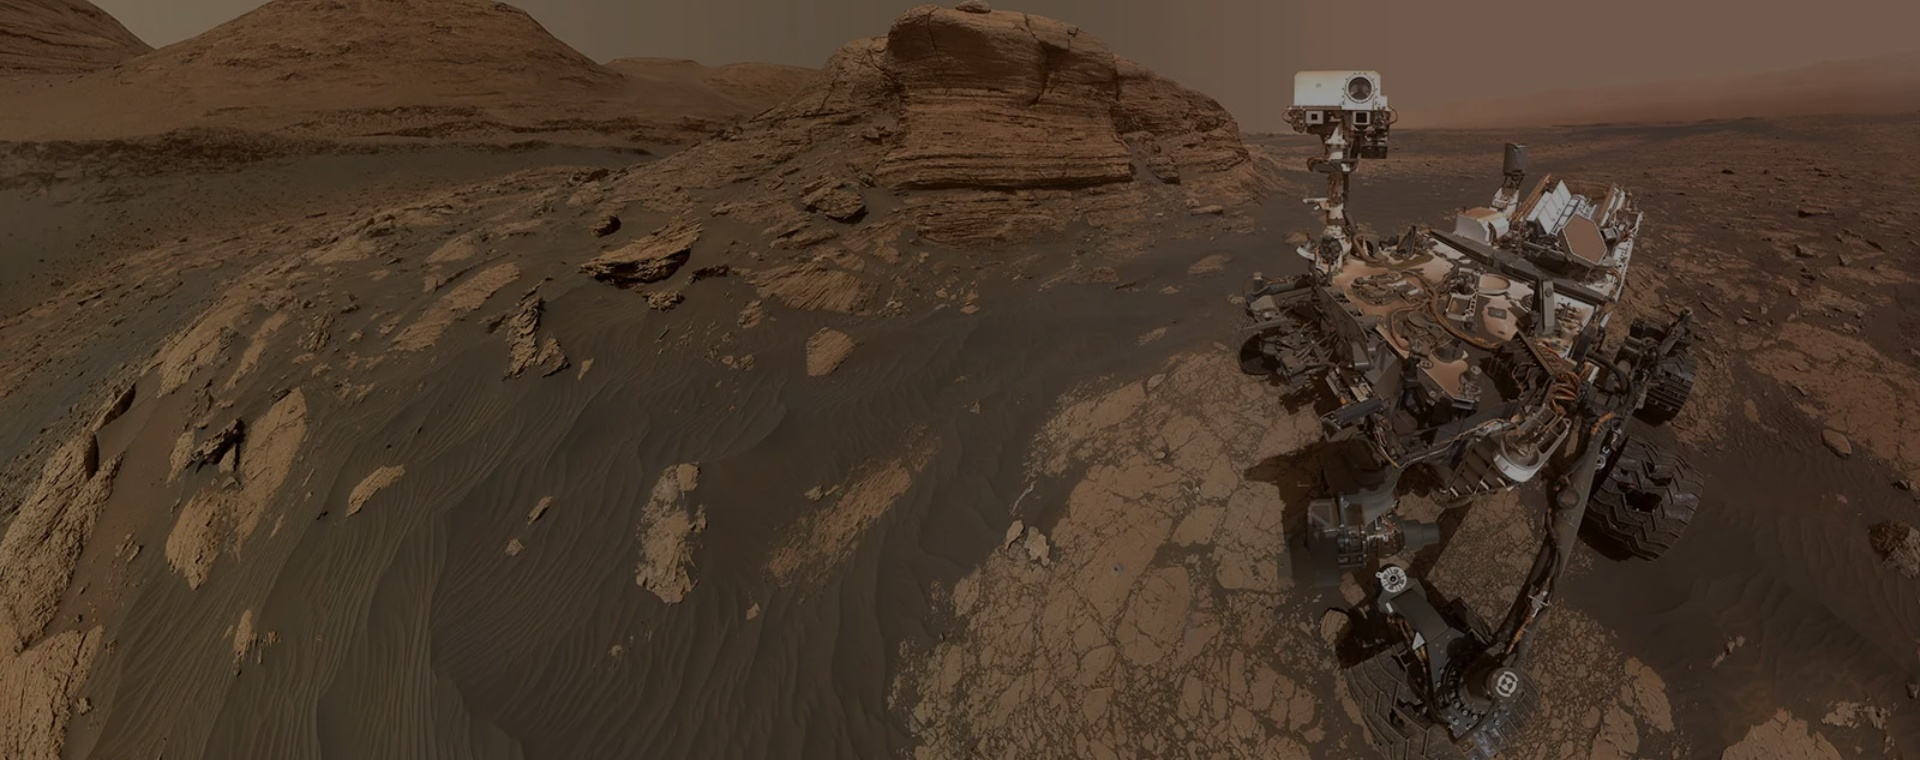
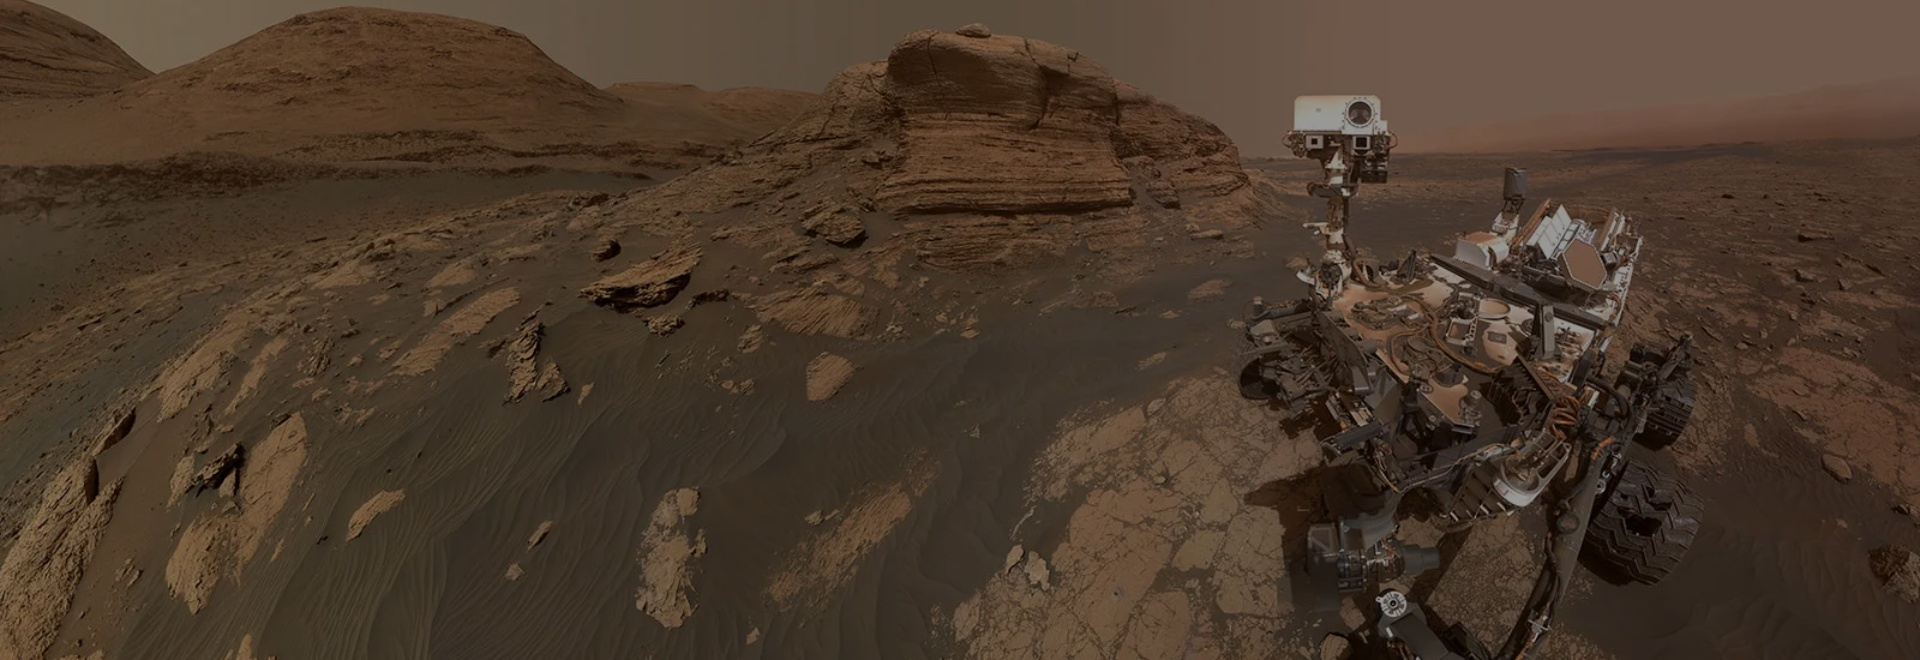
Styling changes and adjusting sections

diff --git a/src/index.html b/src/index.html
@@ -25,7 +25,7 @@
             </div>
 
             <section class="mission">
-                <p>NASA's Mars rovers have been exploring the Red Planet, uncovering its secrets and mysteries. Since landing in 2012, Curiosity has been studying Mars' climate and geology, searching for signs of ancient life. Perseverance, NASA's latest rover, is on a mission to collect rock and soil samples for potential return to Earth, while also exploring key areas for past microbial life. All rovers are equipped with advanced cameras and scientific instruments that allow us to learn more about Mars' history and environment.
+                <p>NASA's Mars rovers have been at the forefront of uncovering the secrets and mysteries of the Red Planet. Curiosity, which landed in 2012, has been studying Mars' climate and geology, searching for signs of ancient life. Perseverance, NASA's latest rover, is on a mission to collect rock and soil samples for potential return to Earth, while also exploring areas for evidence of past microbial life. The Opportunity and Spirit twin rovers, which landed in 2004, revolutionized our understanding of Mars by providing critical insights into its water history, before concluding their missions after years of exploration.
                     <br><br>
                     Our goal is to bring the mysteries of Mars closer to you. By using data from NASA’s Mars rovers, this platform provides a collection of images that showcase Mars' unique landscapes. From the towering cliffs to vast dunes, explore Mars like never before.</p>
             </section>

diff --git a/src/css/style.css b/src/css/style.css
@@ -44,7 +44,7 @@ main section {
   justify-content: space-between;
   align-items: center;
   padding: 20px 60px;
-  background-color: #FFFFFF;
+  background-color: black;
   box-shadow: 0 2px 4px rgba(0, 0, 0, 0.1);
   max-height: 70px; 
   overflow: hidden; 
@@ -66,7 +66,7 @@ main section {
 .nav-links a {
   text-decoration: none;
   font-size: 20px;
-  color: black;
+  color: white;
   font-weight: bold;
   font-family: 'Roboto', sans-serif; 
 }
@@ -209,7 +209,7 @@ main section {
 .hero {
   position: relative;
   width: 100%;
-  height: 760px;
+  height: 660px;
   overflow: hidden;
   font-family: 'Roboto', sans-serif; 
 }
@@ -499,7 +499,7 @@ main section {
 .search-photos button {
   width: 100%;
   padding: 10px;
-  background-color: #ff6f61;
+  background-color: #ff6347;
   color: #ffffff;
   font-size: 1.1rem;
   font-weight: bold;
@@ -509,7 +509,7 @@ main section {
 }
 
 #search-photos-btn:hover {
-  background-color: #e5533f;
+  background-color: #ff6f61;
 }
 
 /*
@@ -522,6 +522,7 @@ main section {
   display: grid;
   grid-template-columns: repeat(2, 1fr);
   gap: 20px;
+  margin-top: 4em;
   padding: 20px;
 }
 
@@ -542,7 +543,8 @@ main section {
   font-size: 1.3rem;
   margin-top: 0;
   text-align: center;
-  color: #ffffff;
+  color: black;
+  font-family: 'Noto Sans Display', sans-serif;
 }
 
 .gallery-item:hover img {
@@ -693,4 +695,11 @@ main section {
   font-weight: bold;
   color: #ff6347;
   margin-left: 0;
+}
+
+#photo-details h3 {
+  font-size: 2rem;
+  margin: 0 0 30px 0;
+  color: #ffffff;
+  font-family: 'Roboto', sans-serif;
 }

diff --git a/src/single-photo/index.html b/src/single-photo/index.html
@@ -10,10 +10,22 @@
 <body>
     <header id="main-header"></header>
 
-    <main>
+    <main class="divider">
+        <div class="hero">
+            <img
+                src="/images/mars-hero.jpg"
+                alt="Image of Mars surface"
+            />
+            <div class="hero-text">
+                <h1>IMAGE <span class="highlight">VIEWER</span></h1>
+                <p>Larger Image Perspective for <span class="highlight">More Details</span></p>
+            </div>
+        </div>
+
         <section class="photo-view">
             <img id="photo-img" src="" alt="Mars photo" />
             <div id="photo-details">
+                <h3>Photo Details</h3>
                 <p><strong>Rover:</strong> <span id="photo-rover"></span></p>
                 <p><strong>Camera:</strong> <span id="photo-camera-name"></span></p>
                 <p><strong>Earth Date:</strong> <span id="photo-earth-date"></span></p>

diff --git a/src/favorites-gallery/index.html b/src/favorites-gallery/index.html
@@ -10,10 +10,17 @@
 <body>
     <header id="main-header"></header>
 
-    <main>
-        <section class="gallery-info">
-            <h2 id="gallery-title">Favorites Gallery</h2>
-        </section>
+    <main class="divider">
+        <div class="hero">
+            <img
+                src="/images/mars-hero.jpg"
+                alt="Image of Mars surface"
+            />
+            <div class="hero-text">
+                <h1>FAVORITES <span class="highlight">GALLERY</span></h1>
+                <p>All of Your <span class="highlight">Favorite Rover Photos</span> in One Gallery</p>
+            </div>
+        </div>
 
         <section class="gallery-grid">
         </section>

diff --git a/src/public/partials/footer.html b/src/public/partials/footer.html
@@ -1,5 +1,5 @@
 <div class="footer-container">
     <div class="footer-content">
-        <p>&copy;2024 | Mitchel Drennan | WDD 330 School Project</p>
+        <p><span class="highlight">&copy;2024</span> | Mitchel Drennan | WDD 330 School Project</p>
     </div>
 </div>

diff --git a/src/image-search/index.html b/src/image-search/index.html
@@ -43,7 +43,7 @@
         </div>
       
         <div class="camera-info">
-          <h3>Available Cameras</h3>
+          <h3>Camera Abbreviations</h3>
           <ul id="camera-list">
           </ul>
         </div>
